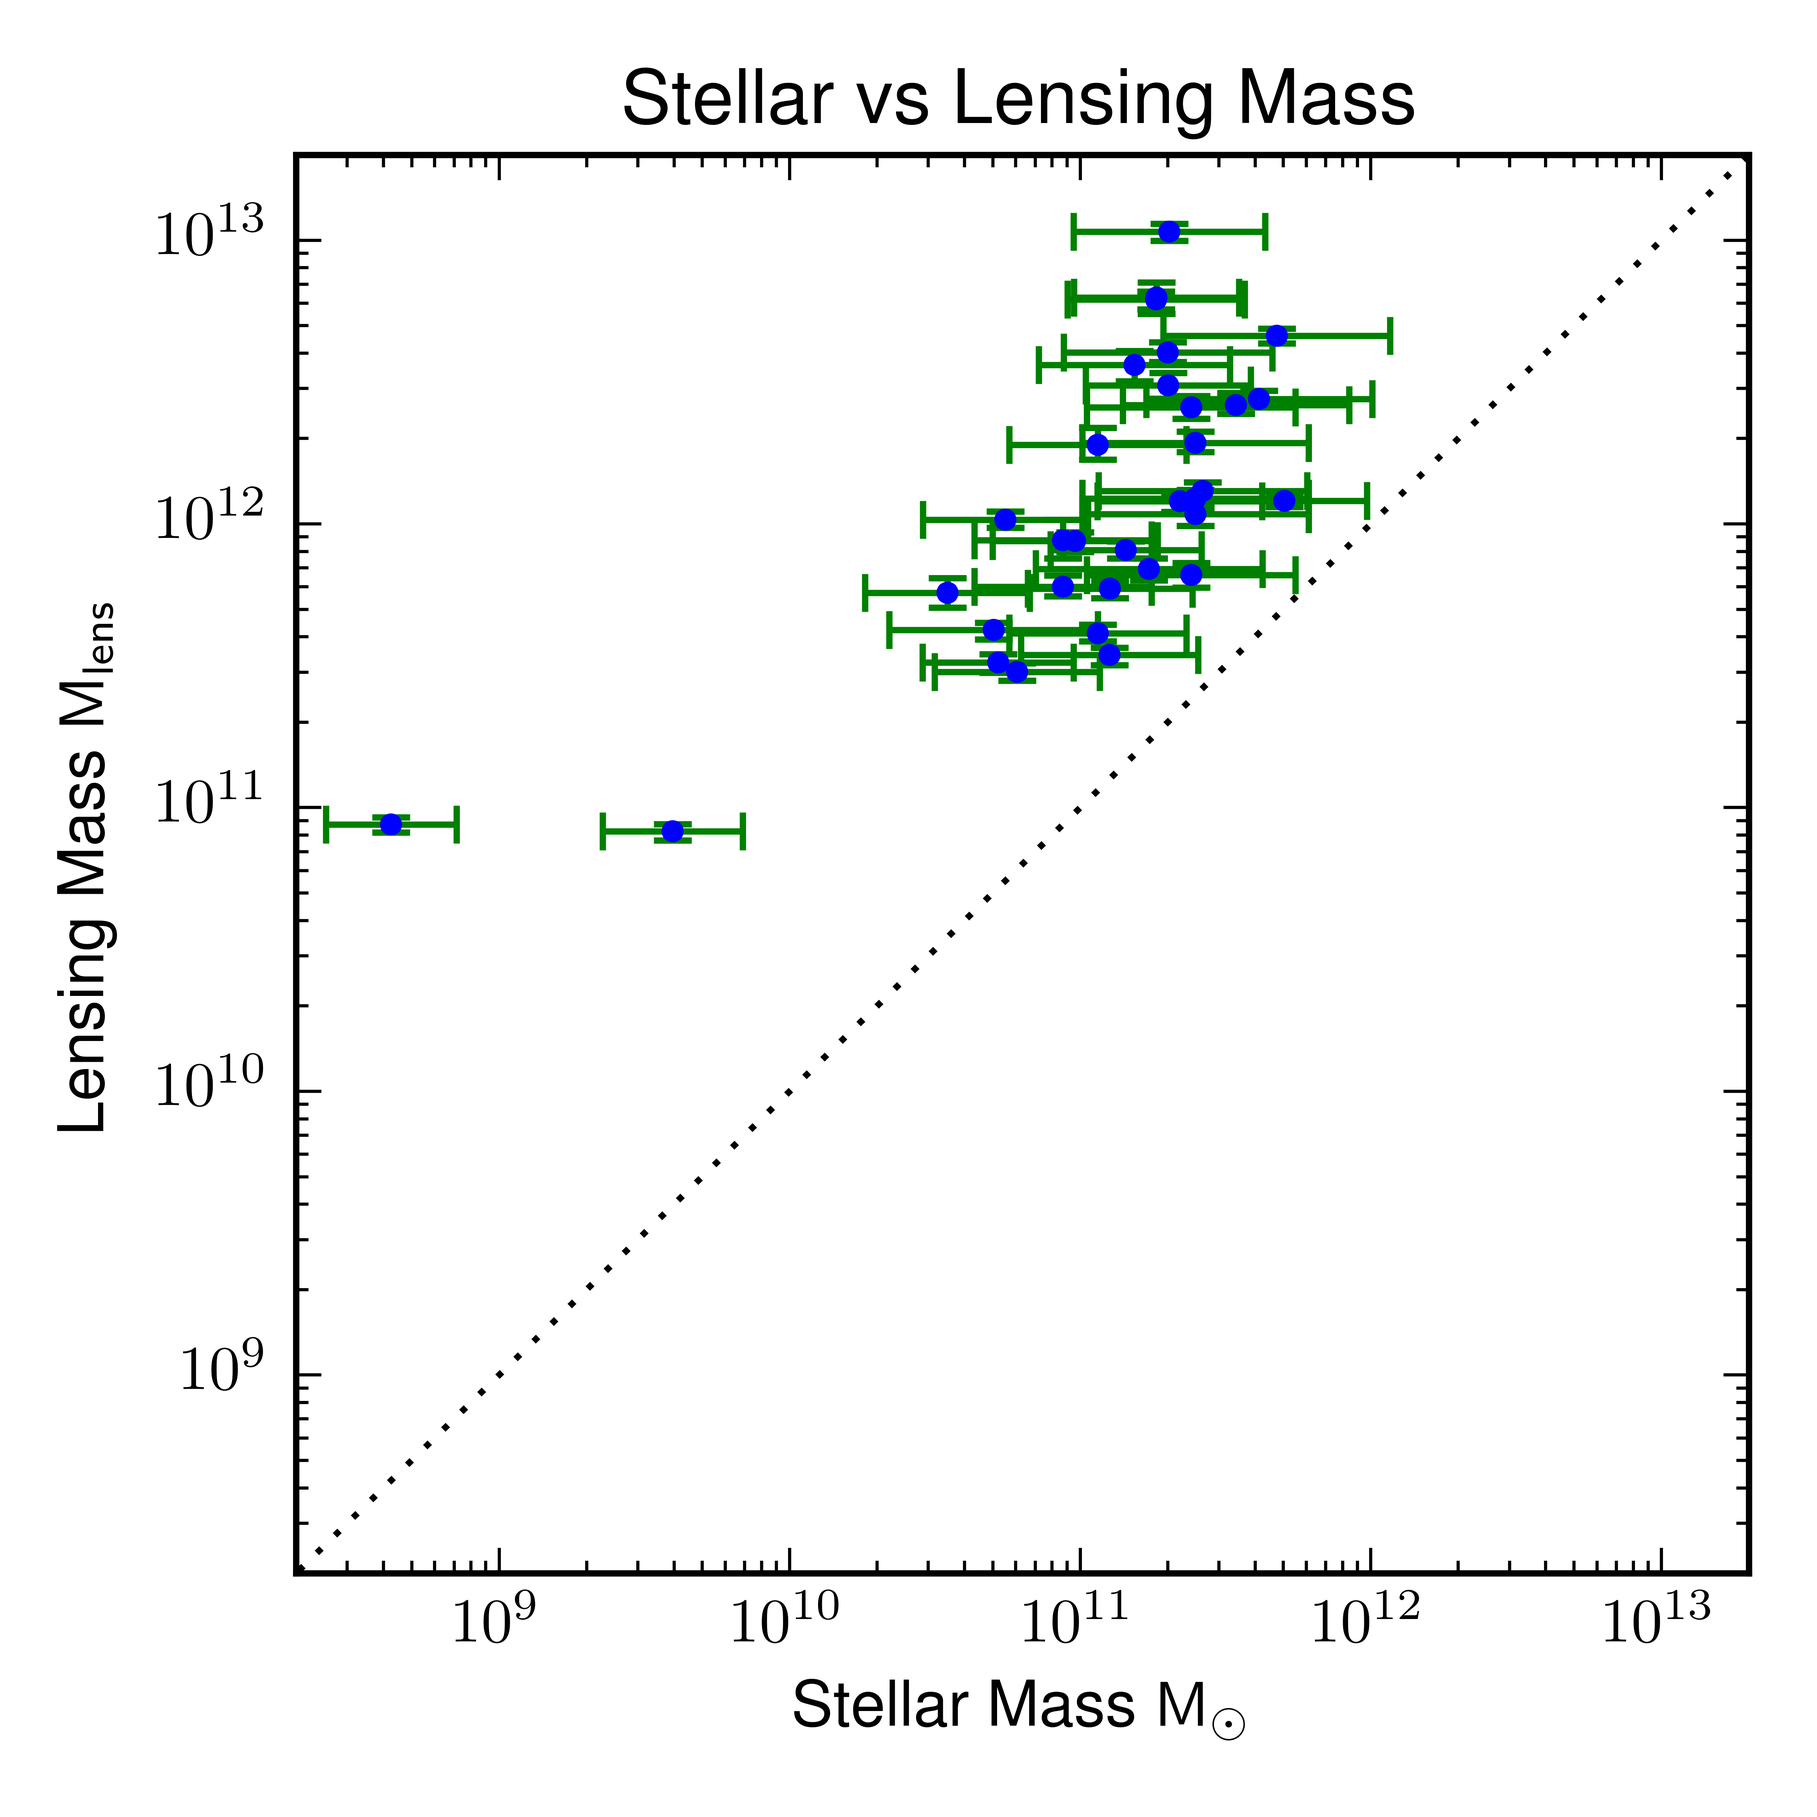
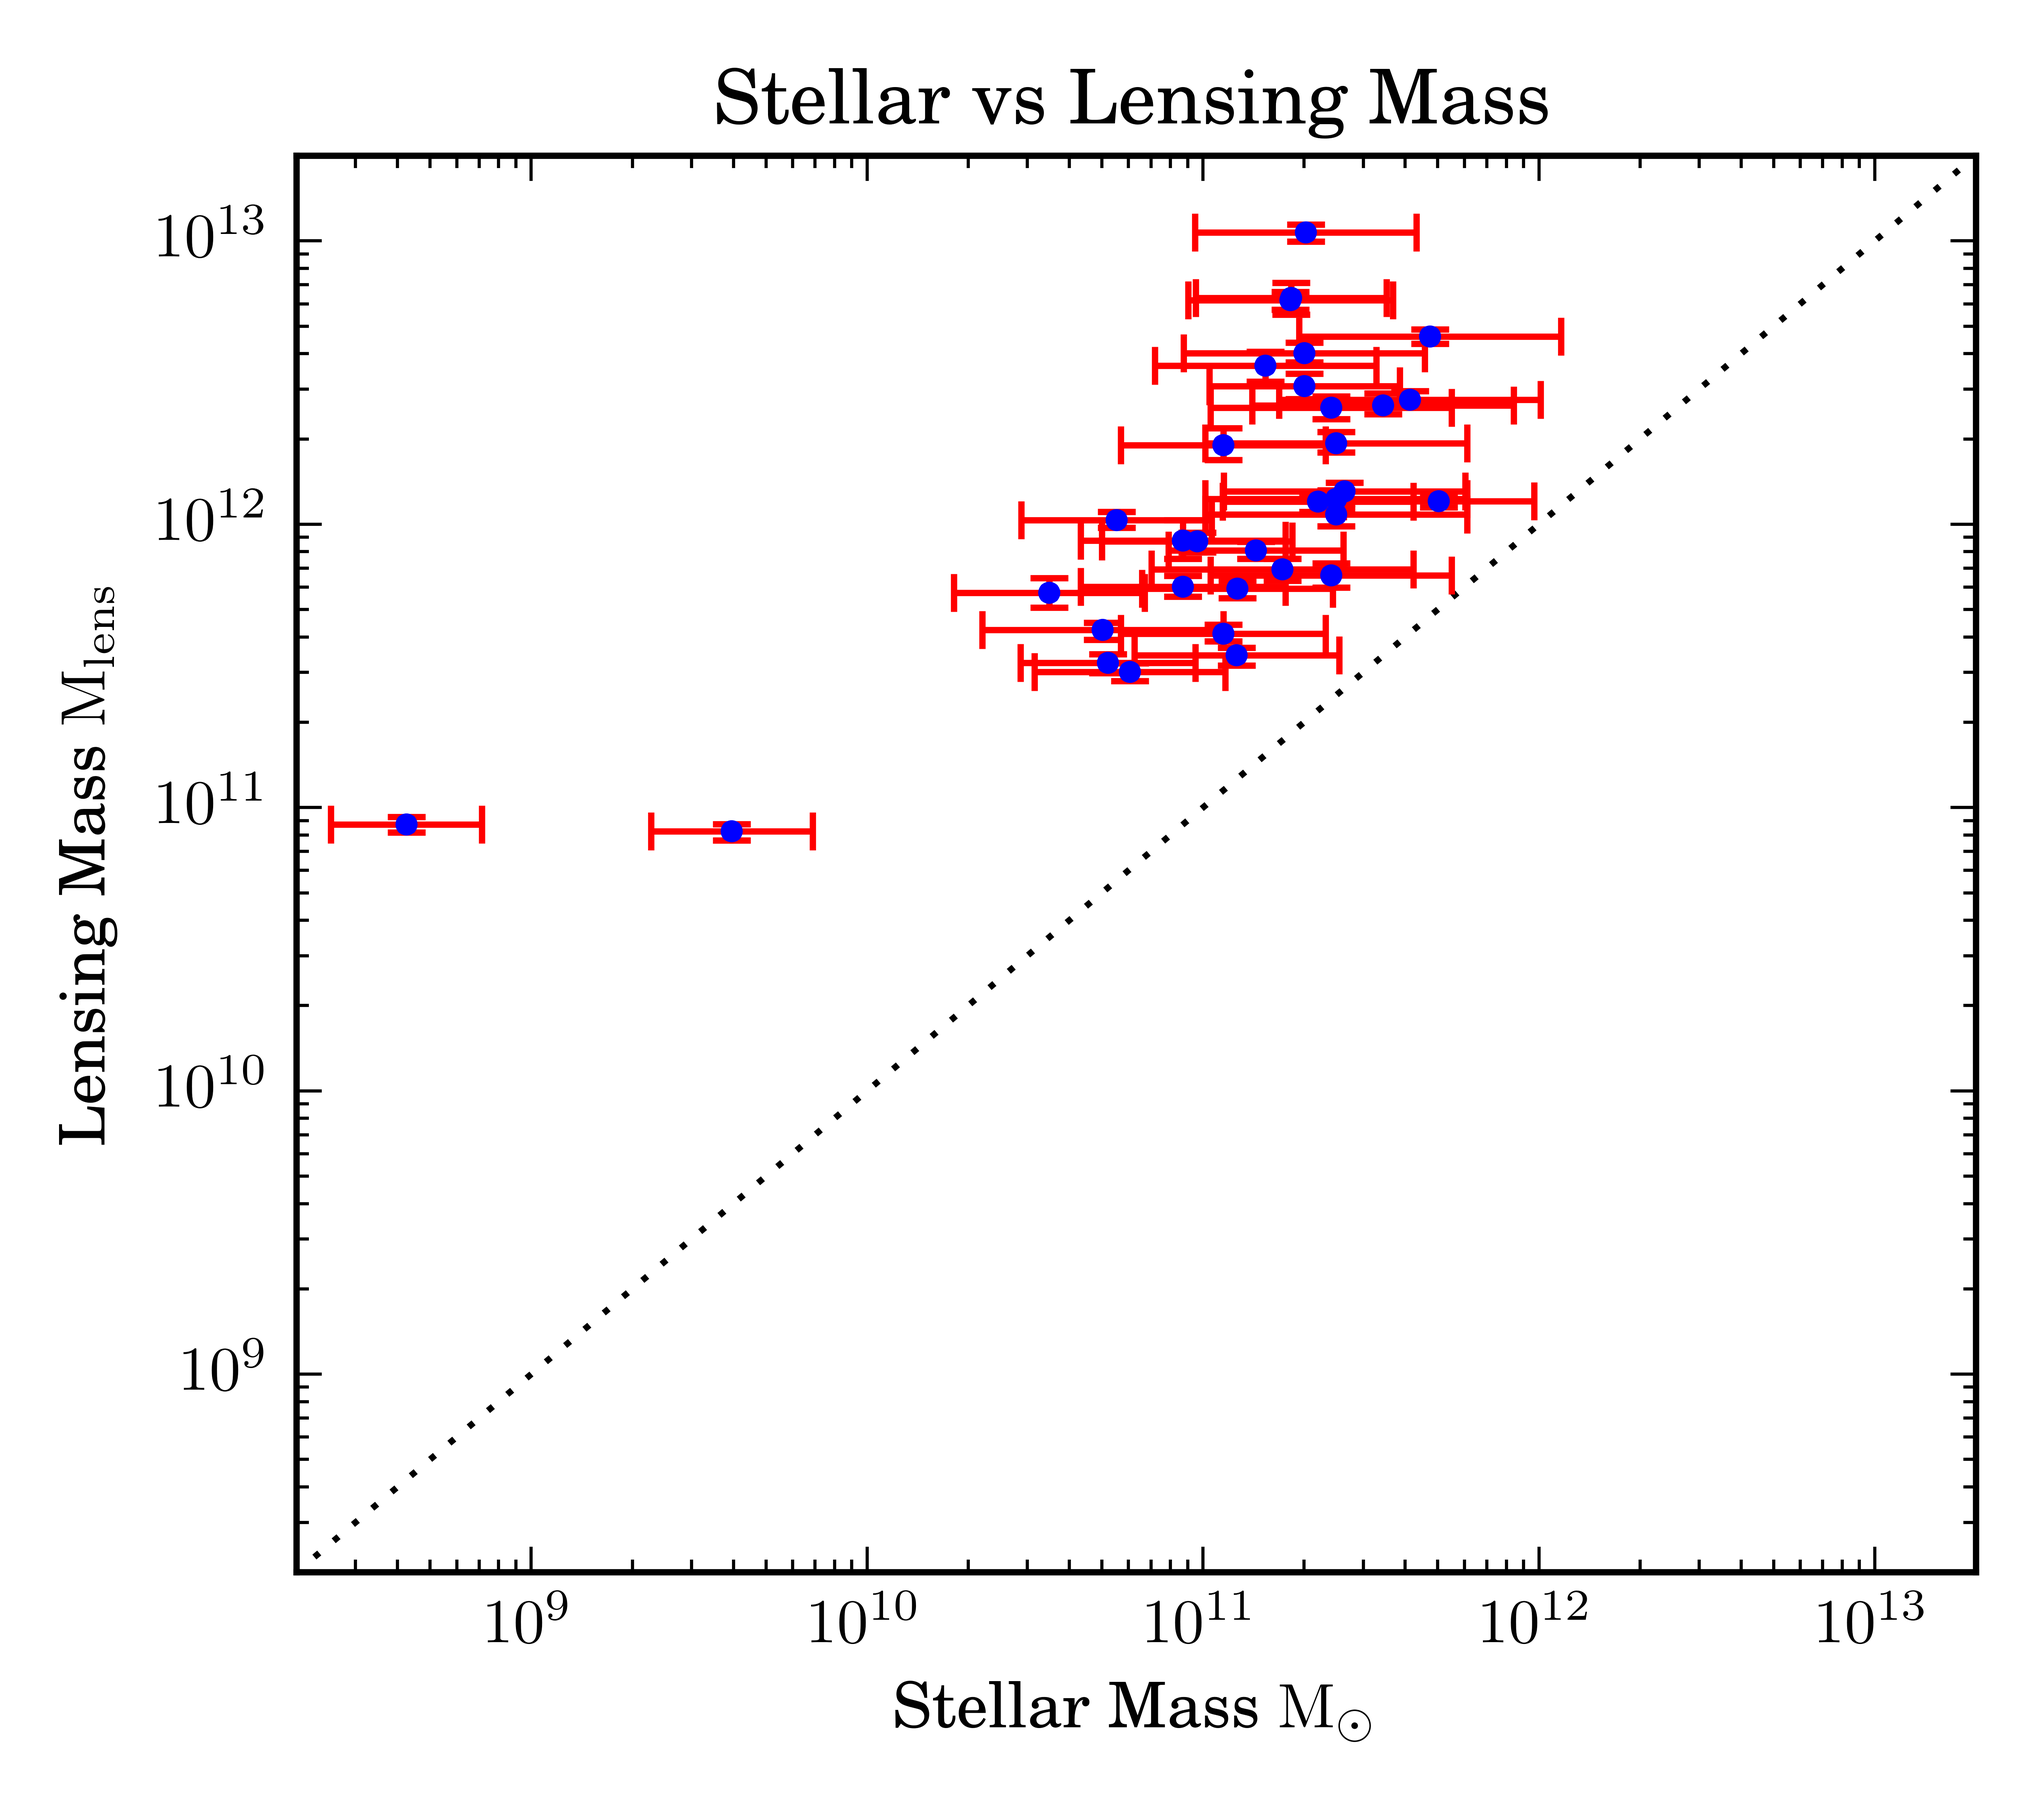
better plot colors

diff --git a/correlate.py b/correlate.py
@@ -9,7 +9,7 @@ import cPickle as pickle
 import numpy as np
 import matplotlib as mpl
 
-mpl.rc('font', family='sans-serif')
+mpl.rc('font', family='serif')
 mpl.rc('text', usetex=True)
 
 import matplotlib.pyplot as plt
@@ -99,21 +99,21 @@ y = np.array(y)
 y_lo = np.array(y_lo)
 y_hi = np.array(y_hi)
 
-fig = plt.figure(figsize=(4,4), dpi=200)
+fig = plt.figure(figsize=(4.5,4), dpi=200)
 ax = fig.add_subplot(111)
 
 ax.plot([1e7,1e15],[1e7,1e15],'k:')
 
-ax.errorbar(x, y, yerr=[y_lo, y_hi], xerr=[x_lo, x_hi],
-            fmt='.', ecolor='g', capthick=1)
+ax.errorbar(x, y, yerr=[y_lo, y_hi], color='b', xerr=[x_lo, x_hi],
+            fmt='.', ecolor='r', capthick=1)
 
 #axis limits
 amin = 2e8
 amax = 2e13
 
 plt.title("Stellar vs Lensing Mass")
-ax.set_xlabel('Stellar Mass $\mathsf{M_{\odot}}$')
-ax.set_ylabel('Lensing Mass $\mathsf{M_{lens}}$')
+ax.set_xlabel('Stellar Mass $\mathrm{M_{\odot}}$')
+ax.set_ylabel('Lensing Mass $\mathrm{M_{lens}}$')
 
 ax.set_xscale("log", nonposx='clip')
 ax.set_yscale("log", nonposy='clip')
